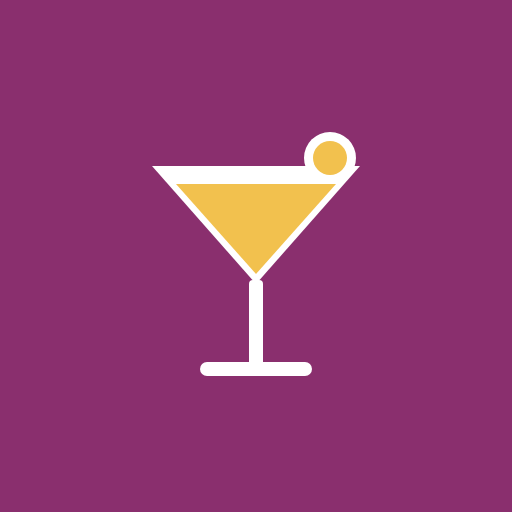
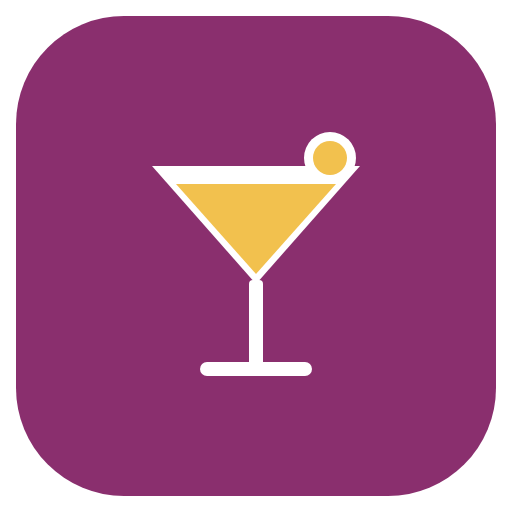
Version 1.2.1 : mode sombre déclaré, écran de lancement, icônes adaptatives
- color-scheme light dark : les navigateurs n'assombrissent plus les couleurs eux-mêmes
- Écran de lancement prune avec icône arrondie, icônes maskable séparées
- Message d'installation dédié à Samsung Internet (alerte Play Protect)
- Badge Facile retiré des vignettes

Claude-Session: https://claude.ai/code/session_01MGrXtN5dFEcwoefrwrsBCQ

Changed region(s): [[0.0, 0.0, 1.0, 1.0]]

diff --git a/app.js b/app.js
@@ -1,7 +1,7 @@
 /* Zeste : logique de l'application. Les données de départ sont dans data.js. */
 'use strict';
 
-const APP_VERSION = '1.2.0';
+const APP_VERSION = '1.2.1';
 const KEY = 'zeste-v1';
 const UNITS = ['ml', 'cl', 'trait', 'goutte', 'c. de bar', 'c. à café', 'c. à soupe', 'pièce', 'feuille', 'brin', 'quartier', 'tranche', 'pincée', 'à compléter'];
 const PLURAL_UNITS = ['trait', 'goutte', 'pièce', 'feuille', 'brin', 'quartier', 'tranche', 'pincée'];
@@ -122,6 +122,7 @@ window.addEventListener('pagehide', () => { if (saveT) flushSave(); });
 /* ---------- appli installable et mises à jour ---------- */
 let deferredInstall = null, swReg = null;
 const isStandalone = () => matchMedia('(display-mode: standalone)').matches || navigator.standalone === true;
+const isSamsung = () => /SamsungBrowser/i.test(navigator.userAgent);
 const isIOS = () => /iphone|ipad|ipod/i.test(navigator.userAgent) || (navigator.platform === 'MacIntel' && navigator.maxTouchPoints > 1);
 window.addEventListener('beforeinstallprompt', e => { e.preventDefault(); deferredInstall = e; if (UI.view === 'catalogue' || UI.view === 'data') render(); });
 window.addEventListener('appinstalled', () => { deferredInstall = null; toast('Zeste est installée'); render(); });
@@ -137,6 +138,7 @@ if ('serviceWorker' in navigator && location.protocol !== 'file:') {
 }
 function installBlock() {
   if (isStandalone()) return `<p>Zeste est installée sur cet appareil.</p>`;
+  if (isSamsung()) return `<p>Samsung Internet installe les applis web de façon incomplète : Google Play Protect affiche alors une fausse alerte. Pour une installation propre, ouvrir ce site dans <b>Chrome</b>, puis menu ⋮ › « Installer l'application ».</p>`;
   if (deferredInstall) return `<p>Zeste peut s'installer comme une appli, sur l'écran d'accueil, et fonctionner sans connexion.</p><div class="row-btns"><button class="btn primary small" data-act="install">Installer Zeste</button></div>`;
   if (isIOS()) return `<p>Sur iPhone ou iPad : ouvrir ce site dans Safari, puis Partager, puis « Sur l'écran d'accueil ».</p>`;
   return `<p class="hint">Si le navigateur le permet, l'option « Installer l'application » ou « Ajouter à l'écran d'accueil » se trouve dans son menu.</p>`;
@@ -302,7 +304,7 @@ function renderCatalogue(m) {
   const nf = filterCount();
   m.innerHTML = `
   ${S.example ? `<div class="note-banner"><p><b>Données d'exemple.</b> Le bar, les notes et les listes sont pré-remplis pour la découverte. Tout reste modifiable.</p><button class="btn small" data-act="dismiss-example">Compris</button></div>` : ''}
-  ${deferredInstall && !S.installDismissed && !isStandalone() ? `<div class="note-banner install"><p><b>Installer Zeste</b> pour l'ouvrir comme une appli, même hors ligne.</p><div class="row-btns"><button class="btn small ghost" data-act="install-later">Plus tard</button><button class="btn small primary" data-act="install">Installer</button></div></div>` : ''}
+  ${deferredInstall && !S.installDismissed && !isStandalone() && !isSamsung() ? `<div class="note-banner install"><p><b>Installer Zeste</b> pour l'ouvrir comme une appli, même hors ligne.</p><div class="row-btns"><button class="btn small ghost" data-act="install-later">Plus tard</button><button class="btn small primary" data-act="install">Installer</button></div></div>` : ''}
   <h1 class="view">Catalogue</h1>
   <div class="cat-layout">
     <aside class="filters${UI.filtersOpen ? '' : ' closed'}" aria-label="Filtres">
@@ -359,7 +361,7 @@ function renderResults() {
   el.innerHTML = list.length ? list.map(({ r, a }) => {
     const [cls, txt] = statusPill(a), rt = S.ratings[r.id] || 0;
     return `<button class="card" data-act="open" data-id="${esc(r.id)}" style="--c:${okColor(r.color)}">
-      <span class="cv">${visual(r)}<span class="pill ${cls}">${txt}</span>${isEasy(r) ? '<span class="easy">Facile</span>' : ''}</span>
+      <span class="cv">${visual(r)}<span class="pill ${cls}">${txt}</span></span>
       <span class="cb"><span class="cname">${esc(r.name)}</span><span class="cmeta">${esc(r.method)} · ${esc(r.glass)}</span>
       <span class="crow">${rt ? starsHTML(rt) : '<span class="unrated">Pas encore noté</span>'}${r.origin === 'Original' ? `<span class="otag">${r.by === 'other' ? 'Original' : 'Ma création'}</span>` : ''}</span></span></button>`;
   }).join('') : `<div class="empty"><p>Aucun cocktail ne correspond.</p><button class="btn small" data-act="clear-all">Tout réafficher</button></div>`;
@@ -493,7 +495,7 @@ function renderCollTab() {
 function rcardHTML(r, own) {
   const a = analyze(r, own), [cls, txt] = statusPill(a);
   const mi = r.ings.map((row, i) => { const st = a.rows[i].st; return `<span class="mi ${st}"><i class="dot ${st === 'ok' ? '' : st}"></i><span>${esc(ingName(row.id))}${st === 'sub' ? ' → ' + esc(ingName(a.rows[i].by)) : ''}</span></span>`; }).join('');
-  return `<button class="rcard" data-act="open" data-id="${esc(r.id)}" style="--c:${okColor(r.color)}"><span class="cv">${visual(r)}<span class="pill ${cls}">${txt}</span>${isEasy(r) ? '<span class="easy">Facile</span>' : ''}</span><span class="rcard-b"><span class="cname">${esc(r.name)}</span><span class="cmeta">${esc(r.method)} · ${esc(r.glass)}</span><span class="mini-ings">${mi}</span></span></button>`;
+  return `<button class="rcard" data-act="open" data-id="${esc(r.id)}" style="--c:${okColor(r.color)}"><span class="cv">${visual(r)}<span class="pill ${cls}">${txt}</span></span><span class="rcard-b"><span class="cname">${esc(r.name)}</span><span class="cmeta">${esc(r.method)} · ${esc(r.glass)}</span><span class="mini-ings">${mi}</span></span></button>`;
 }
 function openCollection(cid) {
   const c = findColl(cid); if (!c) return closeSheet();

diff --git a/sw.js b/sw.js
@@ -1,9 +1,9 @@
 /* Zeste : fonctionnement hors ligne.
    Changer VERSION à chaque mise en ligne : les appareils proposent alors la mise à jour. */
-const VERSION = 'zeste-1.2.0';
+const VERSION = 'zeste-1.2.1';
 const ASSETS = [
   './', 'index.html', 'app.css', 'app.js', 'data.js', 'manifest.webmanifest',
-  'icons/icon.svg', 'icons/icon-192.png', 'icons/icon-512.png', 'icons/apple-touch-icon.png', 'icons/favicon-32.png',
+  'icons/icon.svg', 'icons/icon-192.png', 'icons/icon-512.png', 'icons/icon-maskable-192.png', 'icons/icon-maskable-512.png', 'icons/apple-touch-icon.png', 'icons/favicon-32.png',
   "fonts/big-shoulders-display-latin-700-normal.woff2",  "fonts/big-shoulders-display-latin-800-normal.woff2",  "fonts/figtree-latin-400-normal.woff2",  "fonts/figtree-latin-500-normal.woff2",  "fonts/figtree-latin-600-normal.woff2",  "fonts/figtree-latin-700-normal.woff2",  "fonts/ibm-plex-mono-latin-400-normal.woff2",  "fonts/ibm-plex-mono-latin-500-normal.woff2"
 ];
 

diff --git a/index.html b/index.html
@@ -5,6 +5,7 @@
 <meta name="viewport" content="width=device-width, initial-scale=1, viewport-fit=cover">
 <title>Zeste Cocktails</title>
 <meta name="description" content="Zeste, carnet de cocktails : classiques, créations avec photo, inventaire du bar et recettes réalisables.">
+<meta name="color-scheme" content="light dark">
 <meta name="theme-color" content="#F4F2F3" media="(prefers-color-scheme: light)">
 <meta name="theme-color" content="#131113" media="(prefers-color-scheme: dark)">
 <meta name="apple-mobile-web-app-capable" content="yes">

diff --git a/app.css b/app.css
@@ -66,7 +66,7 @@
 /* ---------- base ---------- */
 /* Mise en page : une colonne sur téléphone (barre d'onglets en bas), une barre latérale et des blocs en colonnes sur grand écran. */
 :root{
-  color-scheme:light;
+  color-scheme:light dark;
   padding-top:env(safe-area-inset-top,0px);padding-bottom:env(safe-area-inset-bottom,0px);
   --bg:#F4F2F3; --surface:#FFFFFF; --surface-2:#ECE7EA; --fg:#1C171A; --muted:#6A5F66; --line:#DDD5DA;
   --accent:#8A2F6E; --accent-fg:#FFFFFF; --amber:#B97812; --ok:#2C7A4B; --warn:#A86200; --miss:#B03636;
